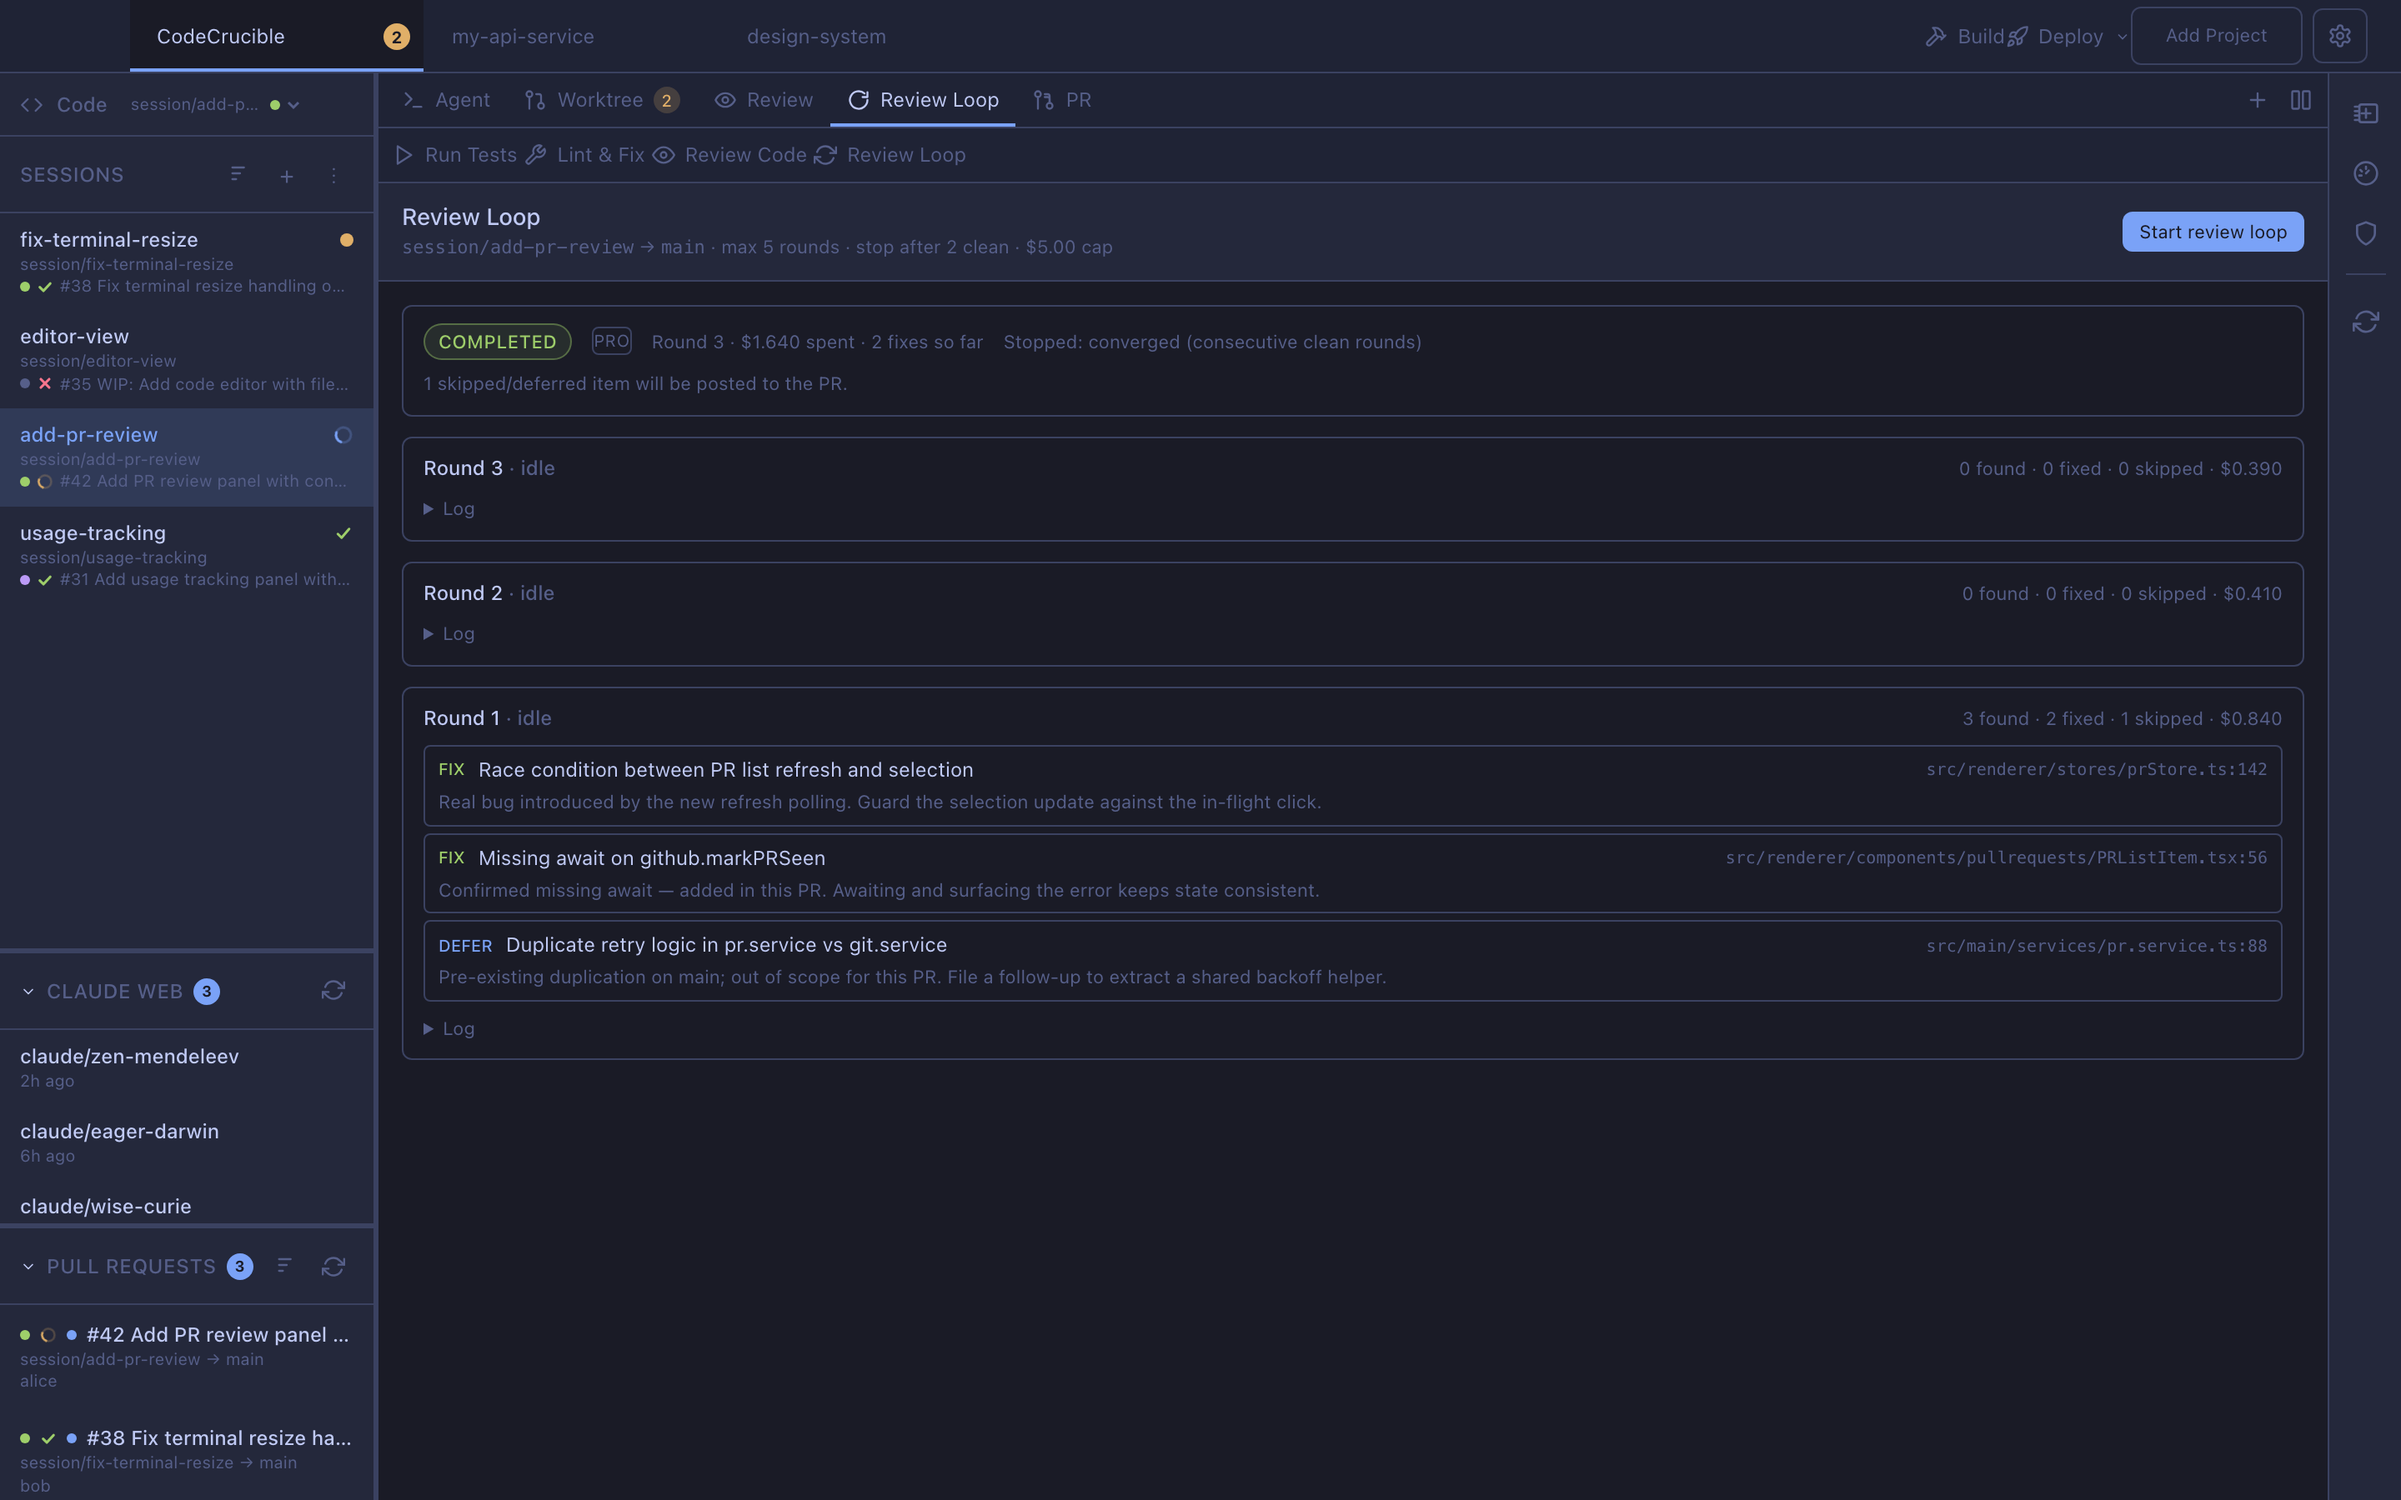
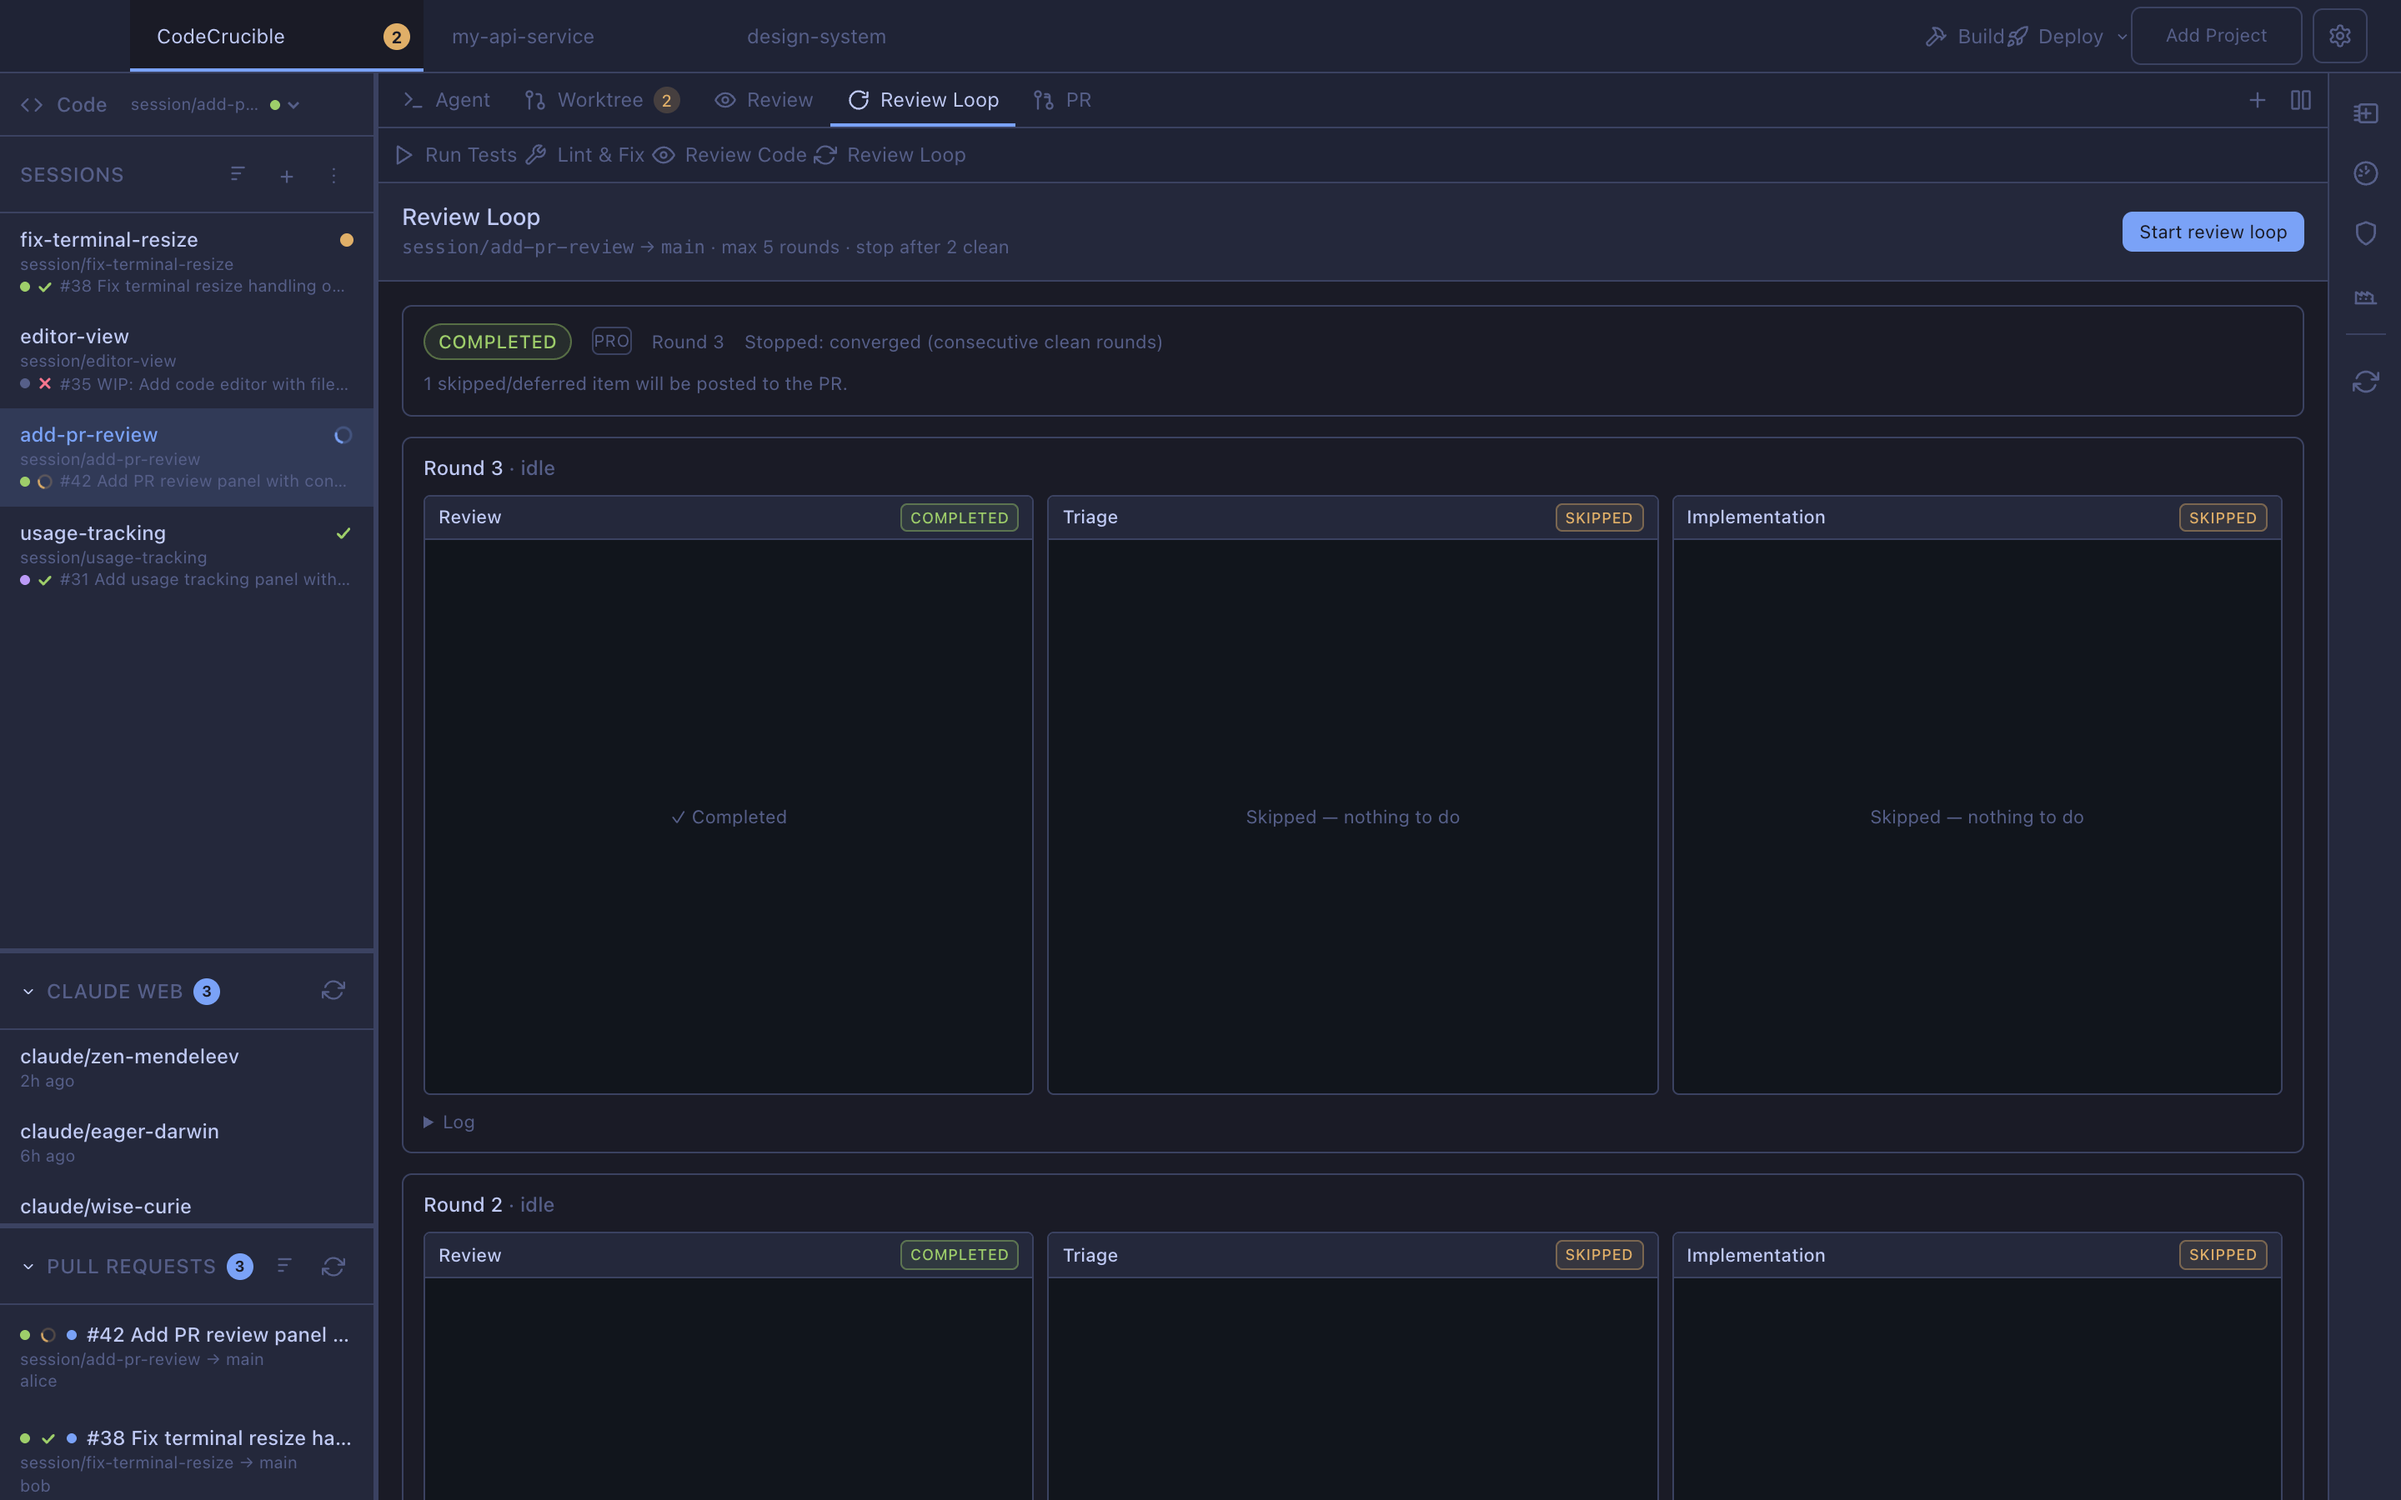
docs(review-loop): refresh screenshots for the 3-terminal UI
Re-capture review-loop-running / -completed / -settings from Storybook to
show the new three-column-per-round layout (status pills, freeze overlay,
skipped phases) and the settings panel with the cost-cap field removed.

Add a SCREENSHOT_ONLY allowlist to the capture script so individual targets
can be refreshed without churning every other docs/screenshots/*.png.

diff --git a/scripts/capture-screenshots.ts b/scripts/capture-screenshots.ts
@@ -393,8 +393,18 @@ async function captureScreenshots() {
   }
   const browser = await chromium.launch(launchOptions)
 
+  // Optional allowlist: SCREENSHOT_ONLY=name1,name2 captures just those targets
+  // (and leaves every other docs/screenshots/*.png untouched).
+  const onlyFilter = (process.env.SCREENSHOT_ONLY ?? '')
+    .split(',')
+    .map((s) => s.trim())
+    .filter(Boolean)
+  const selected = onlyFilter.length > 0
+    ? targets.filter((t) => onlyFilter.includes(t.name))
+    : targets
+
   // Capture main targets
-  for (const target of targets) {
+  for (const target of selected) {
     const context = await browser.newContext({
       viewport: target.viewport ?? VIEWPORT,
       deviceScaleFactor: 2,
